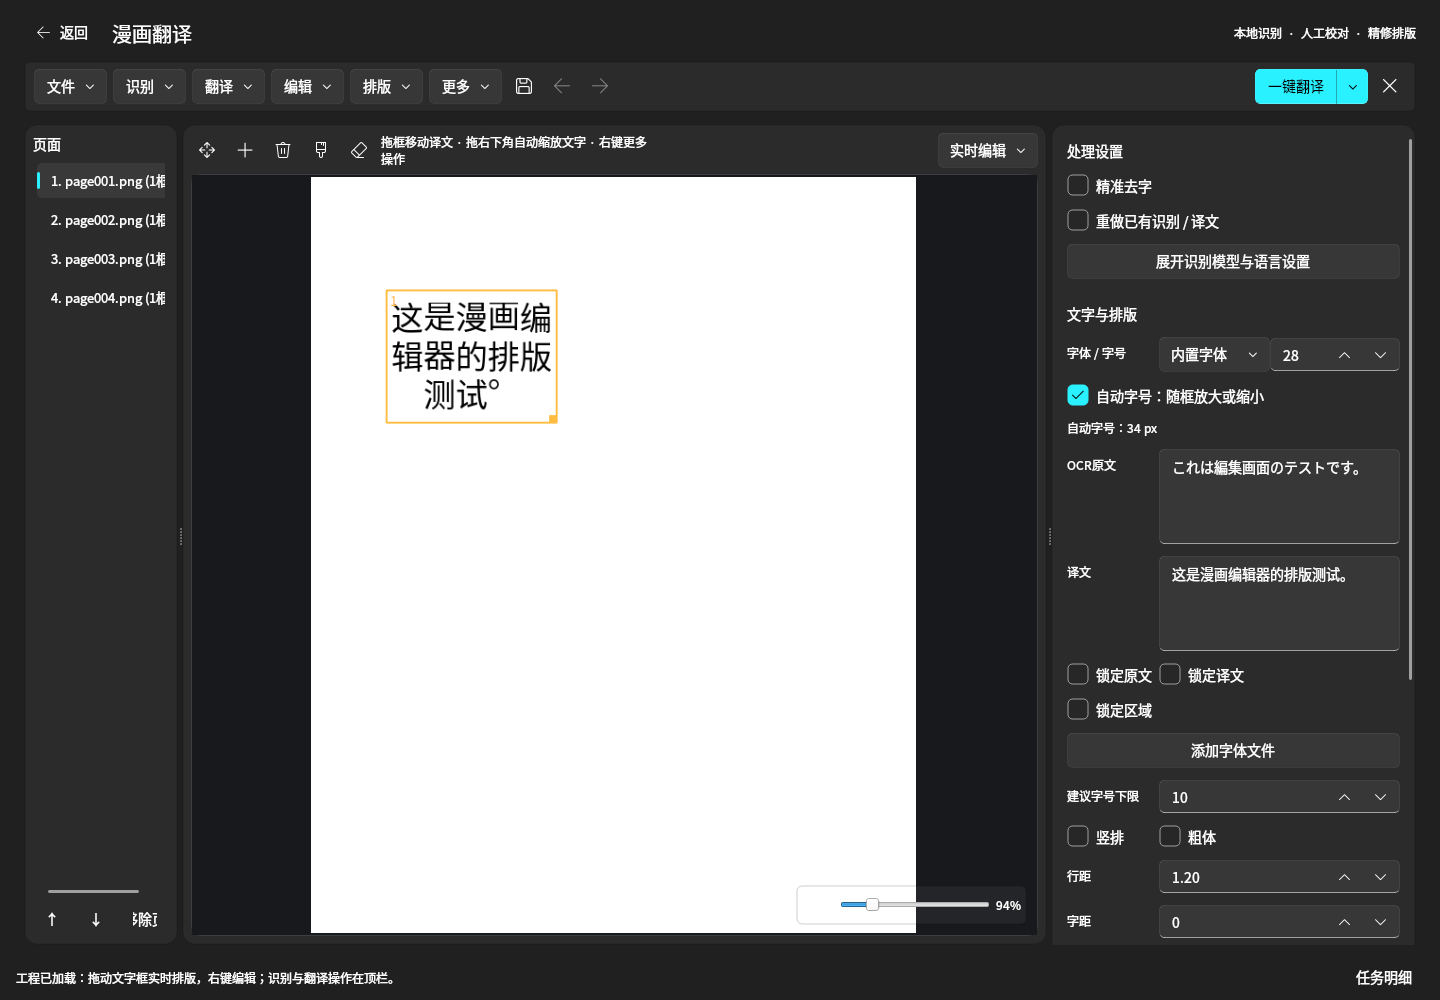
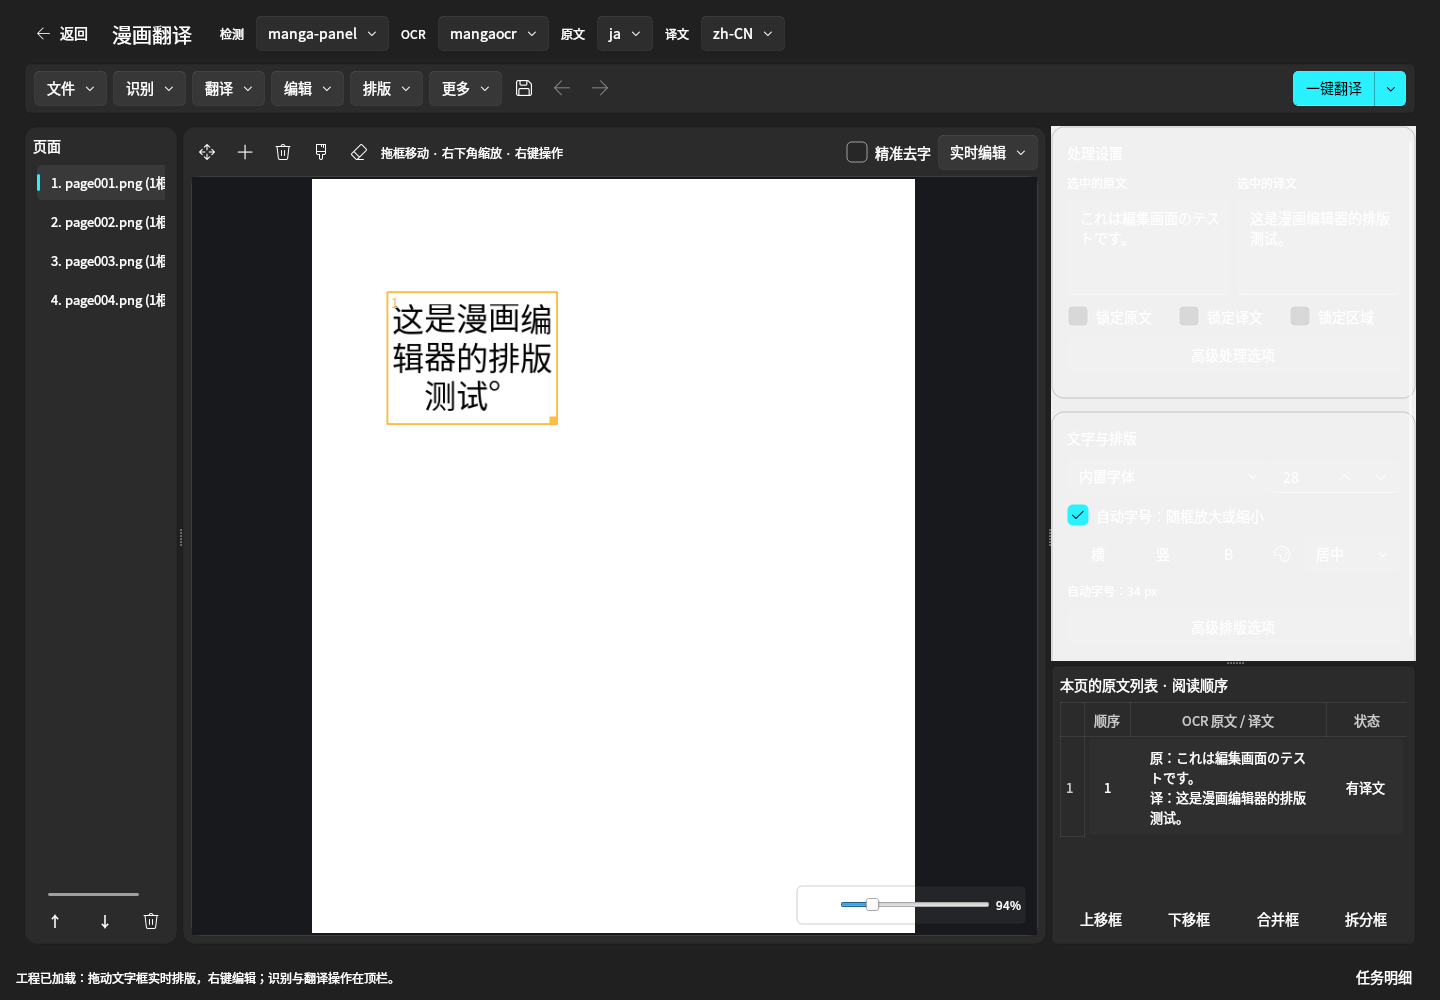
Fix reviewed editor import persistence, controls and cancellation regressions

diff --git a/Frontend/pages/media/manga_page.py b/Frontend/pages/media/manga_page.py
@@ -30,10 +30,10 @@ from PyQt5.QtWidgets import (
     QDialog,
     QFileDialog,
     QFormLayout,
-    QLineEdit,
     QHBoxLayout,
     QHeaderView,
     QInputDialog,
+    QLineEdit,
     QMessageBox,
     QProgressBar,
     QShortcut,
@@ -410,13 +410,29 @@ IMAGE_FILTER = (
 
 
 def pick_image_paths(parent):
-    """Native multi-file picker; returns resolved existing paths."""
-    paths, _ = QFileDialog.getOpenFileNames(parent, "导入图片", "", IMAGE_FILTER)
-    return [
-        str(Path(p).resolve())
-        for p in paths
-        if p and Path(p).exists()
-    ]
+    """One import entry accepts images, PDFs and directories together."""
+    dialog = MixedImportDialog(parent)
+    return dialog.paths if dialog.exec() == QDialog.Accepted else []
+
+
+class MixedImportDialog(QFileDialog):
+    def __init__(self, parent=None):
+        super().__init__(parent, "导入图片、PDF 或文件夹")
+        self.setOption(QFileDialog.DontUseNativeDialog, True)
+        self.setFileMode(QFileDialog.ExistingFiles)
+        self.setNameFilter(IMAGE_FILTER)
+        self.setLabelText(QFileDialog.Accept, "导入所选文件或文件夹")
+        for view in self.findChildren(QAbstractItemView):
+            view.setSelectionMode(QAbstractItemView.ExtendedSelection)
+        self.paths = []
+
+    def accept(self):
+        paths = [
+            str(Path(p).resolve()) for p in self.selectedFiles() if Path(p).exists()
+        ]
+        if paths:
+            self.paths = paths
+            QDialog.accept(self)
 
 
 class ImportDialog(QDialog):
@@ -424,7 +440,7 @@ class ImportDialog(QDialog):
 
     LANGUAGE_LABELS = [
         ("日语", "ja"),
-        ("中文", "zh"),
+        ("中文", "zh-CN"),
         ("英语", "en"),
         ("韩语", "ko"),
     ]
@@ -450,6 +466,9 @@ class ImportDialog(QDialog):
         form.addRow("原文语言", self.source_language)
         form.addRow("目标语言", self.target_language)
         layout.addLayout(form)
+        self.append = QCheckBox("追加到当前工程", self)
+        self.append.setVisible(bool(getattr(parent, "document", None)))
+        layout.addWidget(self.append)
         buttons = QHBoxLayout()
         buttons.addStretch(1)
         cancel = QPushButton("取消")
@@ -684,9 +703,7 @@ class MangaPage(QWidget):
         self.vertical_button = TransparentPushButton("竖")
         self.vertical_button.setCheckable(True)
         self.vertical_button.setToolTip("竖排文字")
-        self.vertical_button.clicked.connect(
-            lambda: self.style_value("vertical", True)
-        )
+        self.vertical_button.clicked.connect(lambda: self.style_value("vertical", True))
         self.bold_button = TransparentPushButton("B")
         self.bold_button.setCheckable(True)
         self.bold_button.setToolTip("粗体")
@@ -697,7 +714,11 @@ class MangaPage(QWidget):
         self.color_button.setToolTip("文字颜色")
         self.color_button.clicked.connect(lambda: self.pick_color("color"))
         self.align = QComboBox()
-        for title, value in [("左对齐", "left"), ("居中", "center"), ("右对齐", "right")]:
+        for title, value in [
+            ("左对齐", "left"),
+            ("居中", "center"),
+            ("右对齐", "right"),
+        ]:
             self.align.addItem(title, value)
         self.align.currentIndexChanged.connect(
             lambda: self.style_value("align", self.align.currentData())
@@ -706,9 +727,7 @@ class MangaPage(QWidget):
         self.spacing.setRange(0.5, 4)
         self.spacing.setValue(1.2)
         self.spacing.setSingleStep(0.1)
-        self.spacing.valueChanged.connect(
-            lambda v: self.style_value("line_spacing", v)
-        )
+        self.spacing.valueChanged.connect(lambda v: self.style_value("line_spacing", v))
         self.charspace = QSpinBox()
         self.charspace.setRange(-10, 50)
         self.charspace.valueChanged.connect(
@@ -1101,6 +1120,7 @@ class MangaPage(QWidget):
         typography.addWidget(self.font, 1)
         typography.addWidget(self.size)
         typography_form.addRow(typography)
+        typography_form.addRow(self.autofit)
         common_row = QHBoxLayout()
         common_row.setSpacing(4)
         common_row.addWidget(self.horizontal_button)
@@ -1118,6 +1138,7 @@ class MangaPage(QWidget):
         advanced_form.addRow("行距", self.spacing)
         advanced_form.addRow("字距", self.charspace)
         advanced_form.addRow("描边宽度", self.stroke)
+        self.button(advanced_form, "描边颜色", lambda: self.pick_color("stroke_color"))
         advanced_form.addRow("旋转角度", self.rotation)
         fill_row = QHBoxLayout()
         self.button(
@@ -1421,7 +1442,13 @@ class MangaPage(QWidget):
         self.progress_panel.adjustSize()
         self.progress_panel.move(
             max(0, self.canvas.viewport().width() - self.progress_panel.width() - 10),
-            max(0, self.canvas.viewport().height() - self.progress_panel.height() - 10),
+            max(
+                0,
+                self.canvas.viewport().height()
+                - self.progress_panel.height()
+                - self.zoom_overlay.height()
+                - 20,
+            ),
         )
         self.progress_panel.raise_()
 
@@ -1459,6 +1486,8 @@ class MangaPage(QWidget):
             and event.type() == QEvent.Resize
         ):
             self.position_zoom_controls()
+            if hasattr(self, "progress_panel") and not self.progress_panel.isHidden():
+                self.position_progress_panel()
         if watched in (getattr(self, "source", None), getattr(self, "target", None)):
             if event.type() == QEvent.ShortcutOverride and (
                 event.matches(QKeySequence.Undo) or event.matches(QKeySequence.Redo)
@@ -1722,11 +1751,19 @@ class MangaPage(QWidget):
 
     def refresh_fonts(self):
         def loaded_fonts(result):
+            selected_font = (
+                self.region()["style"]["font"]
+                if self.region()
+                else self.font.currentData()
+            )
             self.font.blockSignals(True)
             self.font.clear()
             self.font.addItem("内置字体", "")
             for path in result.get("fonts", []):
                 self.font.addItem(Path(path).name, path)
+            if selected_font and self.font.findData(selected_font) < 0:
+                self.font.addItem(Path(selected_font).name, selected_font)
+            self.font.setCurrentIndex(max(0, self.font.findData(selected_font or "")))
             self.font.blockSignals(False)
 
         self.background(lambda: self.client.request("GET", "/fonts"), loaded_fonts)
@@ -1997,7 +2034,6 @@ class MangaPage(QWidget):
         self.vertical_button.setChecked(s["vertical"])
         self.bold_button.setChecked(s["bold"])
         self.autofit.setChecked(s["autofit"])
-        self.align.setCurrentText(s["align"])
         if s["font"] and self.font.findData(s["font"]) < 0:
             self.font.addItem(Path(s["font"]).name, s["font"])
         self.font.setCurrentIndex(max(0, self.font.findData(s["font"])))
@@ -2545,25 +2581,29 @@ class MangaPage(QWidget):
         dialog = ImportDialog(self, len(paths), default_name)
         if dialog.exec() != QDialog.Accepted:
             return
-        settings = deepcopy(self.document["settings"]) if self.document else {
-            "detector": self.detector.currentText(),
-            "ocr": self.ocr.currentText(),
-            "source_language": dialog.source_language.currentData(),
-            "target_language": dialog.target_language.currentData(),
-            "confidence": self.confidence.value(),
-            "right_to_left": self.rtl.isChecked(),
-            "detect_panels": self.panels.isChecked(),
-            "auto_recognize": self.auto_recognize.isChecked(),
-        }
+        settings = (
+            deepcopy(self.document["settings"])
+            if self.document
+            else {
+                "detector": self.detector.currentText(),
+                "ocr": self.ocr.currentText(),
+                "source_language": dialog.source_language.currentData(),
+                "target_language": dialog.target_language.currentData(),
+                "confidence": self.confidence.value(),
+                "right_to_left": self.rtl.isChecked(),
+                "detect_panels": self.panels.isChecked(),
+                "auto_recognize": self.auto_recognize.isChecked(),
+            }
+        )
         for key in ("source_language", "target_language"):
-            value = getattr(self, key).currentData()
-            if value:
-                settings[key] = value
+            settings[key] = getattr(dialog, key).currentData()
         payload = {
             "paths": paths,
             "title": dialog.name_edit.text().strip() or None,
             "settings": settings,
         }
+        if self.document and dialog.append.isChecked():
+            payload["workspace_id"] = self.document["id"]
 
         def imported(result):
             self.loaded(result["workspace"])
@@ -2697,6 +2737,7 @@ class MangaPage(QWidget):
             self.status.setText("请等待当前任务结束，或先取消")
             return
         self.submitting = True
+        self.cancel_pending = False
         self.job_base = deepcopy(self.document)
         self.job_manual_paths = set()
         session = self.session
@@ -2716,6 +2757,8 @@ class MangaPage(QWidget):
             self.job_callback = callback
             if self.job_id:
                 self.poll_timer.start()
+                if self.cancel_pending:
+                    self.cancel_job()
             else:
                 self.progress_panel.hide()
                 callback(result)
@@ -2838,6 +2881,10 @@ class MangaPage(QWidget):
 
     def cancel_job(self):
         identifier = self.job_id
+        if self.submitting and not identifier:
+            self.cancel_pending = True
+            self.status.setText("已请求取消，等待任务提交完成…")
+            return
         if identifier:
             self.background(
                 lambda: self.client.backend.request(

diff --git a/tests/test_manga_editor.py b/tests/test_manga_editor.py
@@ -845,3 +845,54 @@ def test_import_dialog_accepts_selected_real_directory(tmp_path):
     assert dialog.paths == [str(folder.resolve())]
     dialog.deleteLater()
     app.processEvents()
+
+
+def test_import_metadata_and_append_preserve_selected_languages(monkeypatch, tmp_path):
+    from Frontend.pages.media import manga_page as module
+
+    editor = make_editor_for_actions()
+    editor.prepare_to_leave = lambda: True
+    payloads = []
+    editor.client.request = lambda *args, **kwargs: payloads.append(kwargs["json"])
+    editor.start_request = lambda action, callback: action()
+
+    def accept(dialog):
+        dialog.name_edit.setText("新漫画")
+        dialog.source_language.setCurrentIndex(dialog.source_language.findData("ko"))
+        dialog.target_language.setCurrentIndex(dialog.target_language.findData("en"))
+        dialog.append.setChecked(True)
+        return module.QDialog.Accepted
+
+    monkeypatch.setattr(module.ImportDialog, "exec", accept)
+    editor.import_paths([str(tmp_path)])
+    assert payloads[0]["title"] == "新漫画"
+    assert payloads[0]["workspace_id"] == editor.document["id"]
+    assert payloads[0]["settings"]["source_language"] == "ko"
+    assert payloads[0]["settings"]["target_language"] == "en"
+    dispose_editor(editor)
+
+
+def test_font_controls_and_progress_overlay_remain_accessible():
+    editor = make_editor_for_actions()
+    app = QApplication.instance()
+    editor.resize(1440, 1000)
+    editor.show()
+    app.processEvents()
+    assert editor.autofit.isVisible()
+    editor.size.setValue(42)
+    assert not editor.region()["style"]["autofit"]
+    editor.autofit.setChecked(True)
+    assert editor.region()["style"]["autofit"]
+    editor.align.setCurrentIndex(editor.align.findData("right"))
+    editor.select_region(editor.selected)
+    assert editor.align.currentData() == "right"
+    editor.progress_panel.show()
+    editor.position_progress_panel()
+    assert not editor.progress_panel.geometry().intersects(
+        editor.zoom_overlay.geometry()
+    )
+    editor.submitting = True
+    editor.cancel_job()
+    assert editor.cancel_pending
+    editor.submitting = False
+    dispose_editor(editor)

diff --git a/Frontend/pages/media/manga_canvas.py b/Frontend/pages/media/manga_canvas.py
@@ -1,8 +1,10 @@
 """Native Qt geometry and mask interaction, always in original-image coordinates."""
 
 import json
+import weakref
 from io import BytesIO
 
+from PyQt5 import sip
 from PyQt5.QtCore import QRectF, Qt, QTimer, pyqtSignal
 from PyQt5.QtGui import QColor, QPainter, QPen, QPixmap
 from PyQt5.QtWidgets import (
@@ -54,8 +56,8 @@ class RegionItem(QGraphicsRectItem):
                 # 延迟到事件循环：draw_canvas 期间 blockSignals 会吞掉本信号
                 QTimer.singleShot(
                     0,
-                    lambda rid=self.region["id"], info=self.layout_info: self.canvas.layoutMeasured.emit(
-                        rid, info
+                    lambda canvas_ref=weakref.ref(self.canvas), rid=self.region["id"], info=self.layout_info: (
+                        self.notify_layout(canvas_ref, rid, info)
                     ),
                 )
                 self.setToolTip(
@@ -83,6 +85,12 @@ class RegionItem(QGraphicsRectItem):
                 QRectF(self.rect().width() - 8, self.rect().height() - 8, 8, 8),
                 QColor("#ffbc42"),
             )
+
+    @staticmethod
+    def notify_layout(canvas_ref, region_id, info):
+        canvas = canvas_ref()
+        if canvas is not None and not sip.isdeleted(canvas):
+            canvas.layoutMeasured.emit(region_id, info)
 
     def mousePressEvent(self, event):
         self.resizing = (

diff --git a/tests/test_manga_api.py b/tests/test_manga_api.py
@@ -80,10 +80,20 @@ def test_authenticated_api_queue_revision_and_assets(tmp_path):
             Image.new("RGB", (100, 100), "white").save(source)
             result = client.post(
                 "/api/v2/manga/import",
-                json={"paths": [str(source)], "settings": {"auto_recognize": False}},
+                json={
+                    "paths": [str(source)],
+                    "title": "自定义漫画名",
+                    "settings": {"auto_recognize": False},
+                },
             )
             assert result.status_code == 200, result.text
             doc = result.json()["workspace"]
+            assert doc["title"] == "自定义漫画名"
+            assert service.store.load(doc["id"]).title == "自定义漫画名"
+            assert (
+                client.get("/api/v2/manga/" + doc["id"]).json()["workspace"]["title"]
+                == "自定义漫画名"
+            )
             changed = client.patch(
                 "/api/v2/manga/" + doc["id"],
                 json={"workspace": doc, "expected_revision": doc["revision"]},

diff --git a/Backend/api/manga.py b/Backend/api/manga.py
@@ -175,6 +175,7 @@ def create_manga_router(runtime, authorized, service=None):
             )
             if body.title:
                 doc.title = body.title.strip() or doc.title
+                doc = service.store.save(doc, doc.revision)
             if body.recognize and doc.settings.auto_recognize:
                 return service.run(doc.id, "recognize", context=context)
             return {"status": "success", "workspace": doc.model_dump(), "report": {}}
